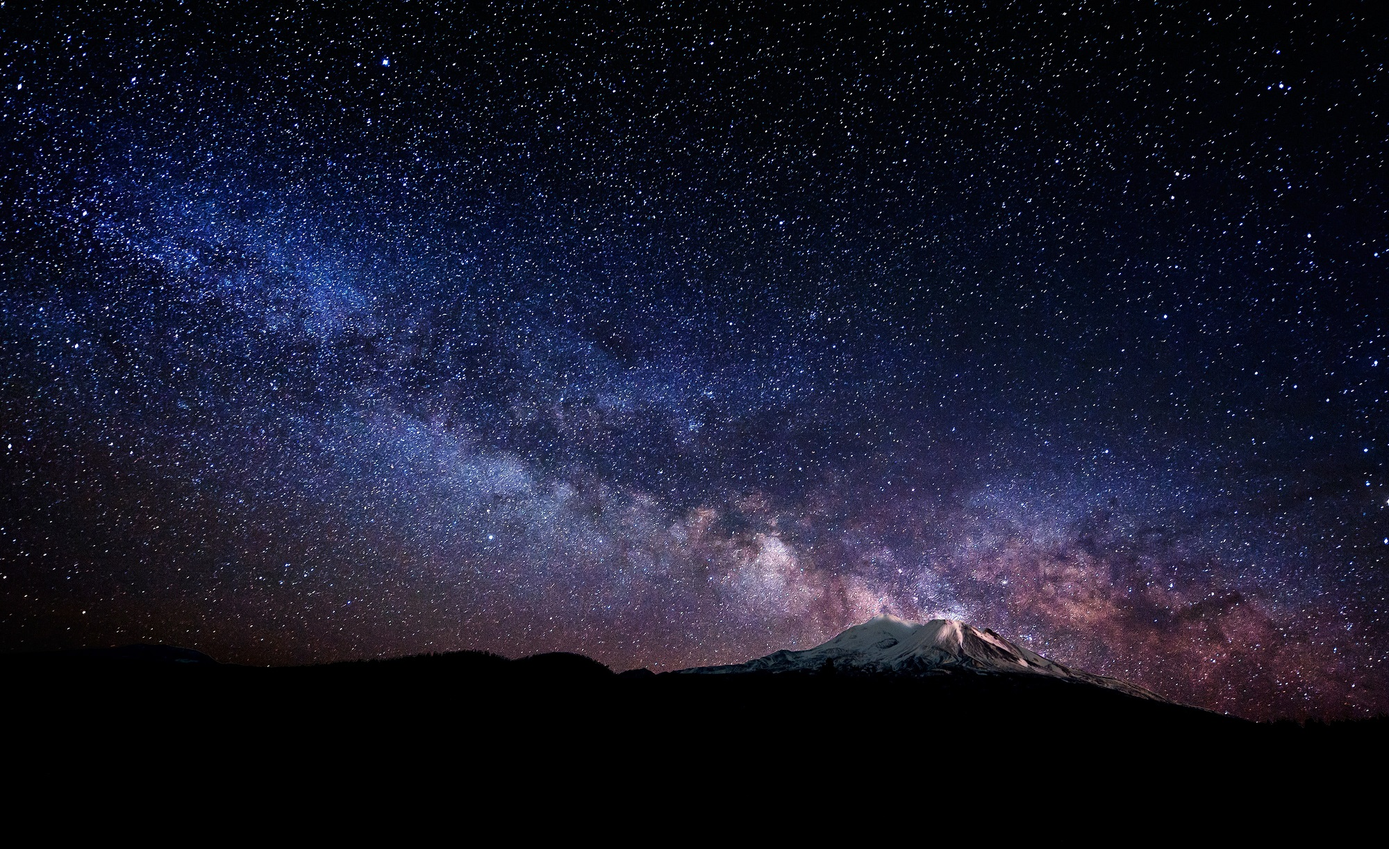
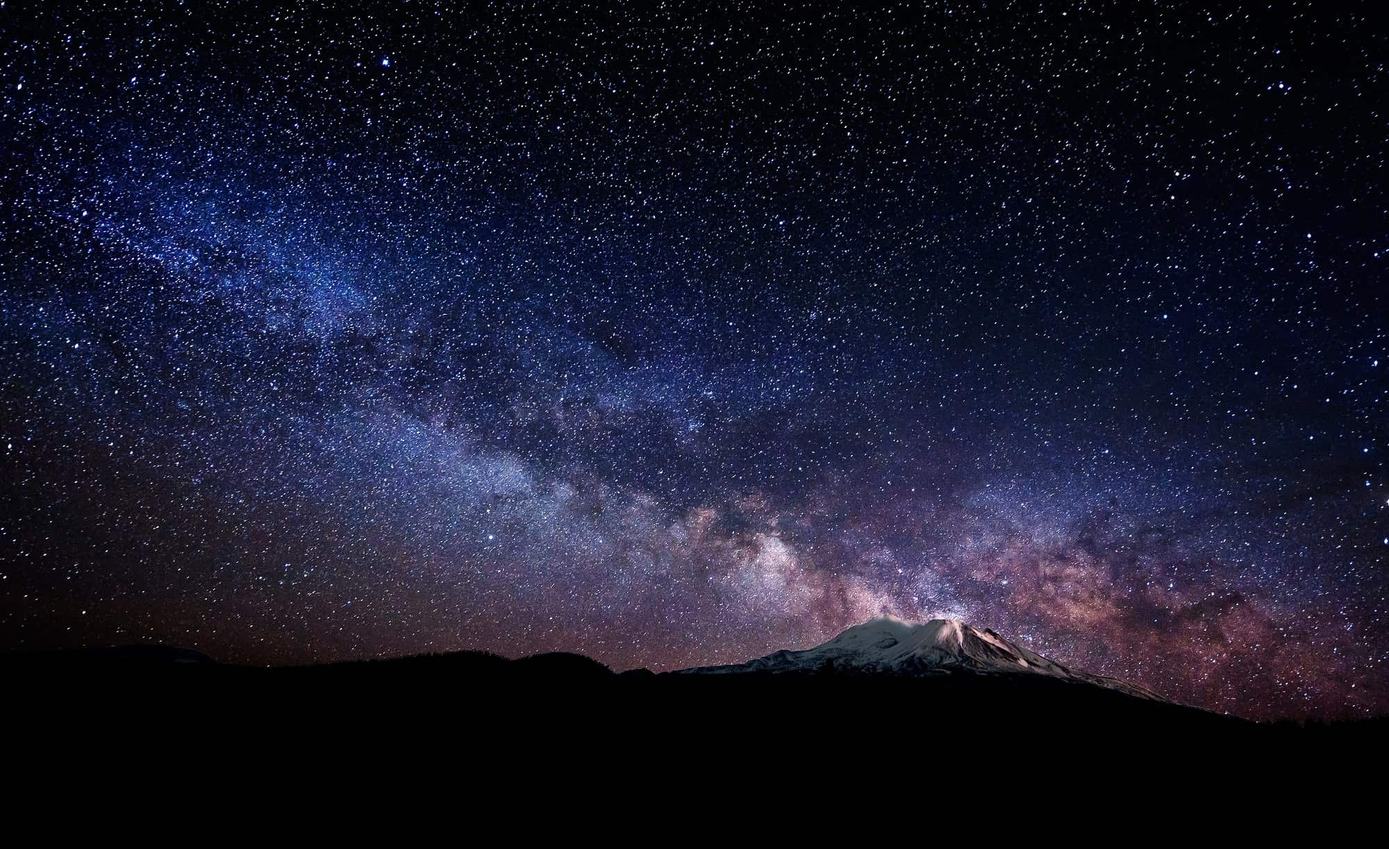
optimised images and bg

Changed region(s): [[0.0, 0.1244, 0.93, 0.8085]]

diff --git a/backend/routes/api.js b/backend/routes/api.js
@@ -7,6 +7,20 @@ const Users = require('../models/users.js');
 
 var multer = require('multer')
 const bcrypt = require('bcrypt');
+const fs = require('fs');
+
+const resizer = require('node-image-resizer');
+const setup = { 
+  all: {
+    path: './public/photos/',
+    quality: 60
+  },
+  versions: [{
+      width: 1024,
+      height: 768
+    }]
+};
+
 
 
   
@@ -31,8 +45,9 @@ router.get('/my_comments', function(req, res){
     }).catch(err=>res.status(400).json({'error': err.message}));
 });
 
-router.post('/edit',function(req,res){
+router.post('/edit',async function(req,res){
     let userID = getUserFromToken(req);
+    
     
     var storage = multer.diskStorage({
         destination: function (req, file, cb) {
@@ -69,7 +84,16 @@ router.post('/edit',function(req,res){
             }
             try{
                 if(req.file) {
+                    // console.log(req.file)
+                    const user = await Users.findById(userID);
+                    fs.unlink("./public/photos/" + user.imageURL,function(err) {
+                        if(err) {
+                            console.info("Error removing file");
+                        }
+                    });
                     req.body.imageURL = req.file.filename;
+                    imageURL = req.file.filename;
+                    resizer("./public/photos/"+imageURL, setup);
                 }
                 if(req.body.password && req.body.password!='')
                 {

diff --git a/backend/routes/public.js b/backend/routes/public.js
@@ -8,6 +8,18 @@ const Comments = require('../models/comments.js');
 var multer = require('multer')
 var nodemailer = require('nodemailer');
 
+const resizer = require('node-image-resizer');
+const setup = { 
+  all: {
+    path: './public/photos/',
+    quality: 60
+  },
+  versions: [{
+      width: 1024,
+      height: 768
+    }]
+};
+
 
 var ncrypt = require('ncrypt-js');
 var { encrypt, decrypt } = new ncrypt('farewell');
@@ -100,6 +112,7 @@ router.post('/signup', async (req, res) => {
               var imageURL = 'default.jpg'
               if(req.file) {
                 imageURL = req.file.filename;
+                await resizer("./public/photos/"+imageURL, setup);
               }
               var verified =  0;
               console.log(imageURL)
